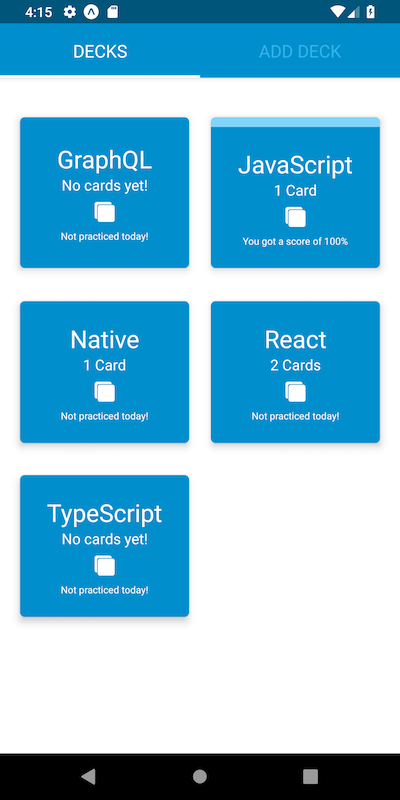
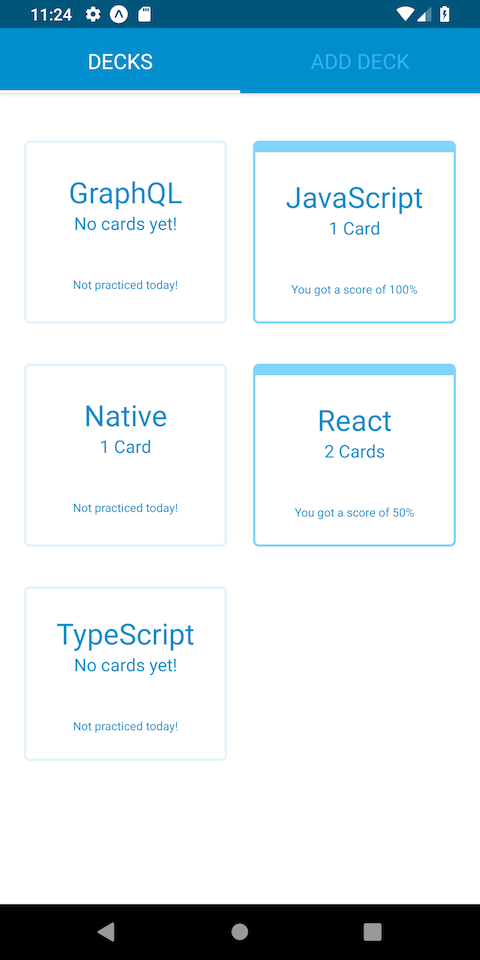
change styles to a lighter feel

diff --git a/components/Quiz.js b/components/Quiz.js
@@ -1,6 +1,7 @@
 import React from 'react';
-import { StyleSheet, View, Text, TouchableOpacity, AsyncStorage } from 'react-native';
+import { StyleSheet, View, Text, TouchableOpacity, AsyncStorage, Platform } from 'react-native';
 import CardFlip from 'react-native-card-flip';
+import { Ionicons } from '@expo/vector-icons';
 import { clearLocalNotification, setLocalNotification } from '../utils/helper';
 import { blue, white } from '../utils/colorNames';
 
@@ -162,8 +163,8 @@ export default class Quiz extends React.Component {
           this.state.deck.title && this.state.quizEnded === false ?
             <CardFlip style={questionCard} ref={(card) => this.card = card} >              
               <View style={ question }>
-                <Text style={[textStyle, { marginTop: 20 }]}>{`Question ${this.state.currentQuestion + 1} of ${this.state.lastQuestion + 1}`}</Text>
-                <Text style={[textStyle, { fontSize: 30, marginTop: 50, textAlign: 'center' }]}>{this.state.deck.questions[this.state.currentQuestion].question}</Text>
+                <Text style={[textStyle, { marginTop: 20, color: blue }]}>{`Question ${this.state.currentQuestion + 1} of ${this.state.lastQuestion + 1}`}</Text>
+                <Text style={[textStyle, { fontSize: 30, marginTop: 50, textAlign: 'center', color: blue }]}>{this.state.deck.questions[this.state.currentQuestion].question}</Text>
                 <TouchableOpacity
                   style={[btn, { marginTop: 60 }]}
                   onPress={() => {
@@ -171,24 +172,24 @@ export default class Quiz extends React.Component {
                     this.setState({ question: false })
                     }
                   }>
-                  <Text style={{ fontSize: 20, color: '#424242' }}>Flip</Text>
+                  <Text style={{ fontSize: 20, color: blue }}>Flip</Text>
                 </TouchableOpacity>
               </View>
               <View style={ answer }> 
                 <Text style={[textStyle, { fontSize: 30 }]}>{this.state.deck.title}</Text>
                 <Text style={textStyle}>{`Question ${this.state.currentQuestion + 1} of ${this.state.lastQuestion + 1}`}</Text>
                 <View style={{ alignItems: 'center' }}>
-                  <Text style={[textStyle, { fontSize: 20, marginTop: 50, padding: 15, textAlign: 'center', color: 'gray' }]}>{this.state.deck.questions[this.state.currentQuestion].answer}</Text>
+                  <Text style={[textStyle, { fontSize: 20, marginTop: 50, padding: 15, textAlign: 'center', color: white }]}>{this.state.deck.questions[this.state.currentQuestion].answer}</Text>
                   <View style={{ alignItems: 'center', marginTop: 60, flexDirection: 'row' }}>
                     <TouchableOpacity
-                      style={[btn, { borderColor: '#424242', flex: 1, marginLeft: 20, marginRight: 5 }]}
+                      style={[btn, { borderColor: white, flex: 1, marginLeft: 20, marginRight: 5 }]}
                       onPress={() => this.correct(this.card)}>
-                      <Text style={{ fontSize: 20, color: '#424242' }}>Correct</Text>
+                      <Text style={{ fontSize: 20, color: white }}><Ionicons name={Platform.OS === 'ios' ? "ios-thumbs-up" : "md-thumbs-up"} size={30} color={white} /></Text>
                     </TouchableOpacity>
                     <TouchableOpacity
-                      style={[btn, { borderColor: blue, flex: 1, marginRight: 20, marginLeft: 5 }]}
+                      style={[btn, { borderColor: white, flex: 1, marginRight: 20, marginLeft: 5 }]}
                       onPress={() => this.incorrect(this.card) }>
-                      <Text style={{ fontSize: 20, color: '#424242' }}>Incorrect</Text>
+                      <Text style={{ fontSize: 20, color: white }}><Ionicons name={Platform.OS === 'ios' ? "ios-thumbs-down" : "md-thumbs-down"} size={30} color={white} /></Text>
                     </TouchableOpacity>
                   </View>
                 </View>
@@ -196,7 +197,7 @@ export default class Quiz extends React.Component {
           </CardFlip>
           :
             <View style={{ alignItems: 'center' }}>
-              <Text style={[textStyle, { fontSize: 25, marginTop: 30, padding: 15, textAlign: 'center' }]}>
+              <Text style={[textStyle, { fontSize: 25, marginTop: 30, padding: 15, textAlign: 'center', color: blue }]}>
                 {percentage > 0.74 ?
                   `You got a score of ${Math.floor(percentage * 100)}%! Congratulations!`
                   :
@@ -263,7 +264,7 @@ const styles = StyleSheet.create({
   },
   textStyle: {
     fontSize: 20,
-    color: '#424242',
+    color: white,
     alignItems: 'center',
     justifyContent: 'center'
   },
@@ -272,7 +273,7 @@ const styles = StyleSheet.create({
     paddingVertical: 10,
     paddingHorizontal: 20,
     borderWidth: 1.5,
-    borderColor: '#424242',
+    borderColor: blue,
     alignItems: 'center'
   },
   btnDanger: {
@@ -319,16 +320,17 @@ const styles = StyleSheet.create({
     justifyContent: 'center',
     paddingVertical: 30,
     paddingHorizontal: 10,
-    backgroundColor: '#E0E0E0',
     borderRadius: 5,
-    color: white
+    borderColor: '#E3F2FD',
+    borderWidth: 2,
+    backgroundColor: white,
   },
   answer: {
     alignItems: 'center',
     justifyContent: 'center',
     paddingVertical: 30,
     paddingHorizontal: 10,
-    backgroundColor: '#B3E5FC',
+    backgroundColor: blue,
     borderRadius: 5,
   },
 });

diff --git a/components/DeckContainer.js b/components/DeckContainer.js
@@ -1,5 +1,5 @@
 import React, { Component } from 'react';
-import { Text, StyleSheet, TouchableOpacity } from 'react-native';
+import { Text, StyleSheet, TouchableOpacity, Platform } from 'react-native';
 import { Ionicons } from '@expo/vector-icons';
 import { white, blue } from '../utils/colorNames'
 
@@ -44,23 +44,24 @@ export default class DeckContainer extends Component {
 const styles = StyleSheet.create({
     textStyle: {
         fontSize: 15,
-        color: white
+        color: blue
     },
     viewStyle: {
         justifyContent: 'center',
         alignItems: 'center',
         padding: 10,
         borderRadius: 5,
+        borderColor: '#E3F2FD',
+        borderWidth: 2,
         marginBottom: 15,
-        backgroundColor: blue,
+        backgroundColor: white,
         shadowColor: "#757575",
         shadowOffset: {
             width: 3,
             height: 3,
         },
-        shadowOpacity: .2,
-        shadowRadius: 5,        
-        elevation: 6,
+        shadowOpacity: .15,
+        shadowRadius: 5, 
         width: '47%'
     },
     tried: {

diff --git a/utils/helper.js b/utils/helper.js
@@ -30,7 +30,7 @@ export const createDecks = async () => {
           },
           {
             question: 'Where do you make Ajax requests in React?',
-            answer: 'The componentD1Mount lifecycle event'
+            answer: 'The componentDidMount lifecycle event'
           }
         ],
         id: id1,
